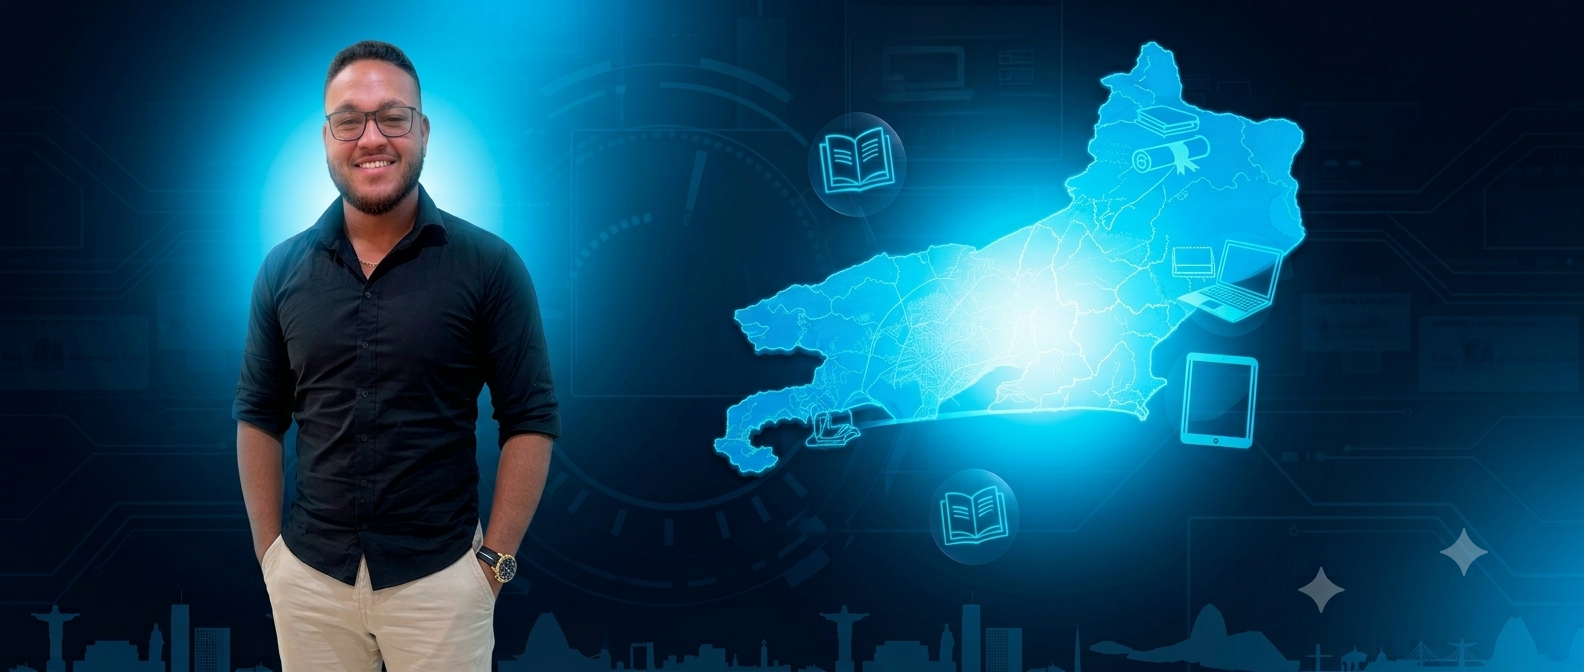
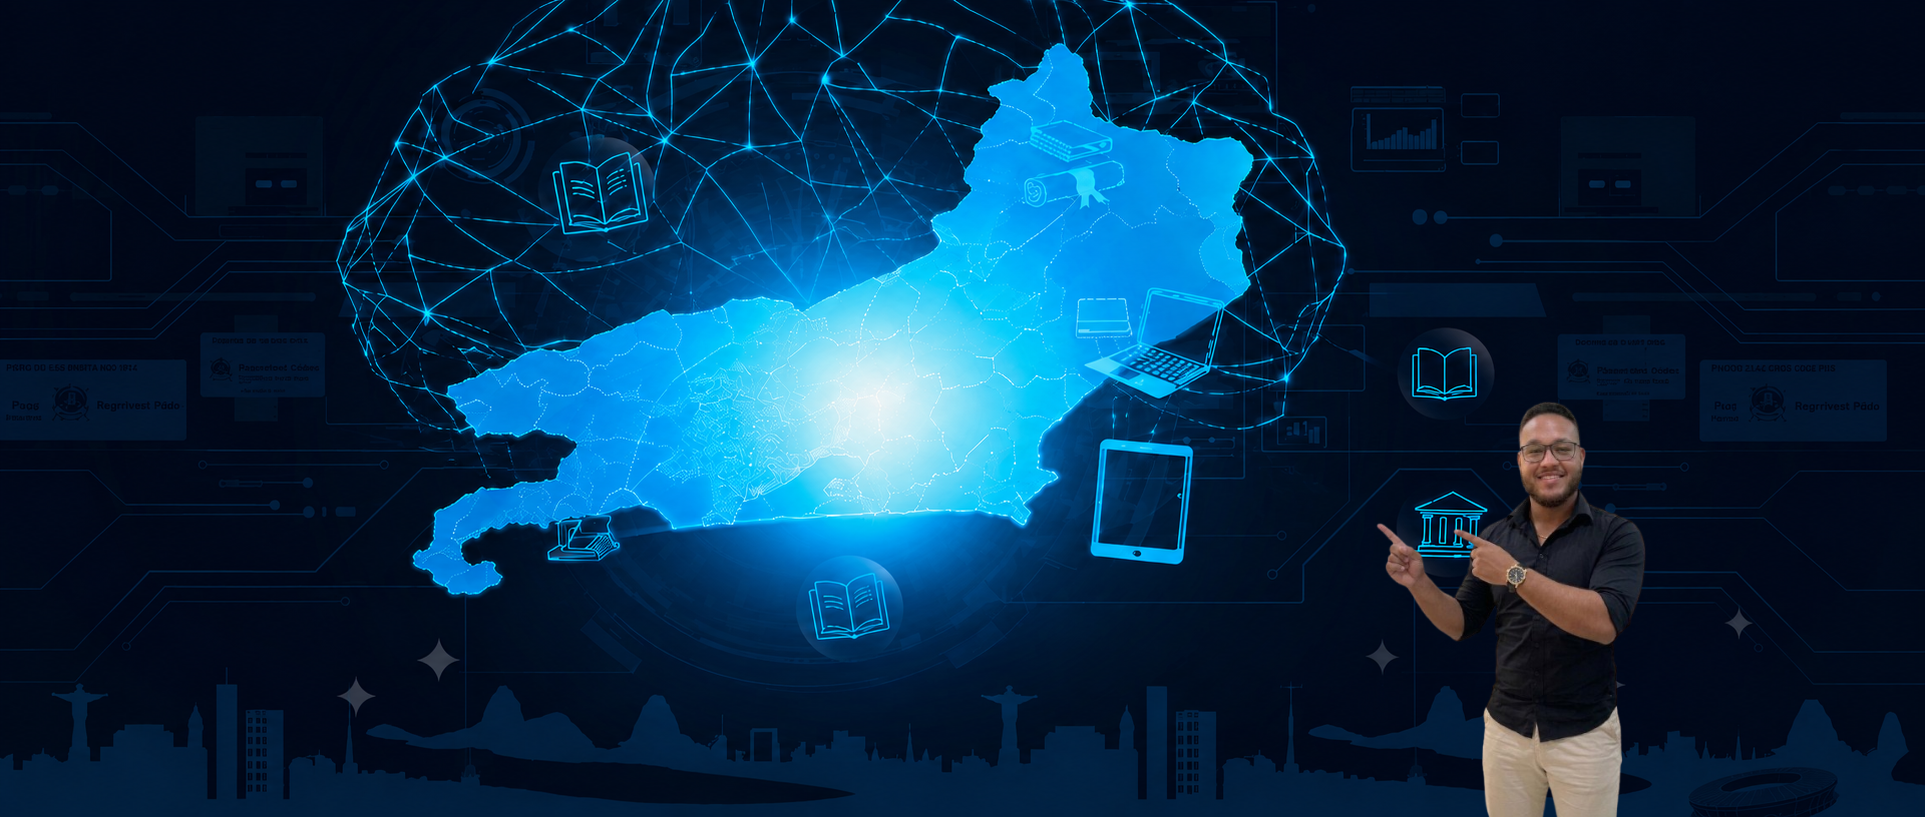
hero3

diff --git a/src/routes/index.tsx b/src/routes/index.tsx
@@ -1398,27 +1398,24 @@ function LandingPage() {
             src={capaHero}
             alt=""
             className="h-full w-full object-cover"
-            style={{ objectPosition: "30% top" }}
+            style={{ objectPosition: "0% top" }}
           />
-          <div className="absolute inset-0 bg-gradient-to-r from-primary/70 via-primary/40 to-primary/70" />
         </div>
 
-        <div className="relative mx-auto grid max-w-7xl items-center gap-10 px-4 py-16 md:grid-cols-[1.1fr_1fr] md:gap-14 md:px-8 md:py-24">
-          {/* LEFT */}
+        <div className="relative mx-auto grid max-w-7xl items-center gap-10 pb-16 pl-4 pt-8 md:grid-cols-[1.1fr_1fr] md:gap-14 md:pb-24 md:pl-6 md:pt-10 lg:max-w-none lg:pl-16 lg:pr-56 xl:pr-80">
+          {/* TEXTOS */}
           <div className="flex flex-col">
             <Badge className="mb-5 w-fit rounded-full bg-cta/20 px-3 py-1 text-cta hover:bg-cta/25 border border-cta/30">
               Matrículas abertas 2026
             </Badge>
             <h1 className="font-display text-4xl font-extrabold leading-[1.05] md:text-6xl">
-              Termine seus estudos online.
+              Para você do Rio de Janeiro.
               <br />
-              <span className="text-3xl text-brand md:text-5xl">
-                Oportunidade para quem é do Rio de Janeiro.
-              </span>
+              <span className="text-3xl text-brand md:text-5xl">Termine seus estudos online.</span>
             </h1>
             <p className="mt-5 max-w-xl text-base text-white/85 md:text-lg">
-              Torne-se profissional com cursos 100% online, diploma reconhecido e suporte
-              do início ao fim.
+              Torne-se profissional com cursos 100% online, diploma reconhecido e suporte do início
+              ao fim.
             </p>
 
             {/* Feature grid */}
@@ -1431,7 +1428,8 @@ function LandingPage() {
               ].map((f) => (
                 <div key={f.title}>
                   <div className="flex items-center gap-2 font-display text-sm font-bold text-brand md:text-base">
-                    <CheckCircle2 className="h-4 w-4 shrink-0" /> {f.title}
+                    <CheckCircle2 className="h-4 w-4 shrink-0" />
+                    <span className="inline-block rounded-md bg-white px-2 py-0.5">{f.title}</span>
                   </div>
                   <p className="mt-1 text-xs text-white/75 md:text-sm">{f.desc}</p>
                 </div>
@@ -1439,7 +1437,7 @@ function LandingPage() {
             </div>
           </div>
 
-          {/* RIGHT — inline form card */}
+          {/* FORMULÁRIO */}
           <div className="relative">
             <div className="absolute -right-3 -top-3 z-20 flex h-20 w-20 rotate-12 items-center justify-center rounded-full bg-cta text-center font-display font-extrabold leading-tight text-cta-foreground shadow-cta md:h-24 md:w-24">
               <div>